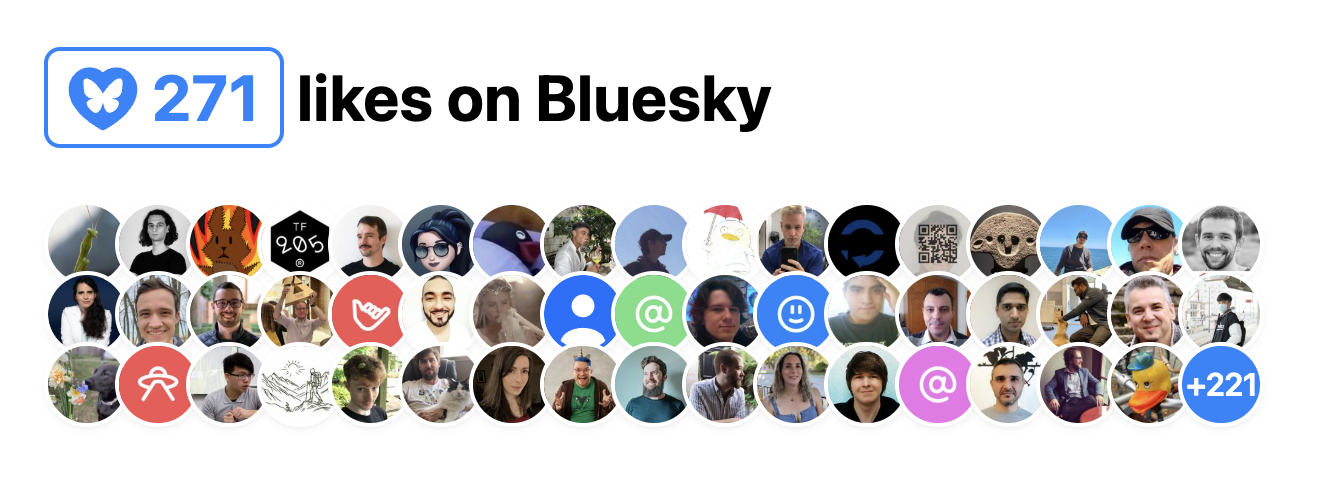
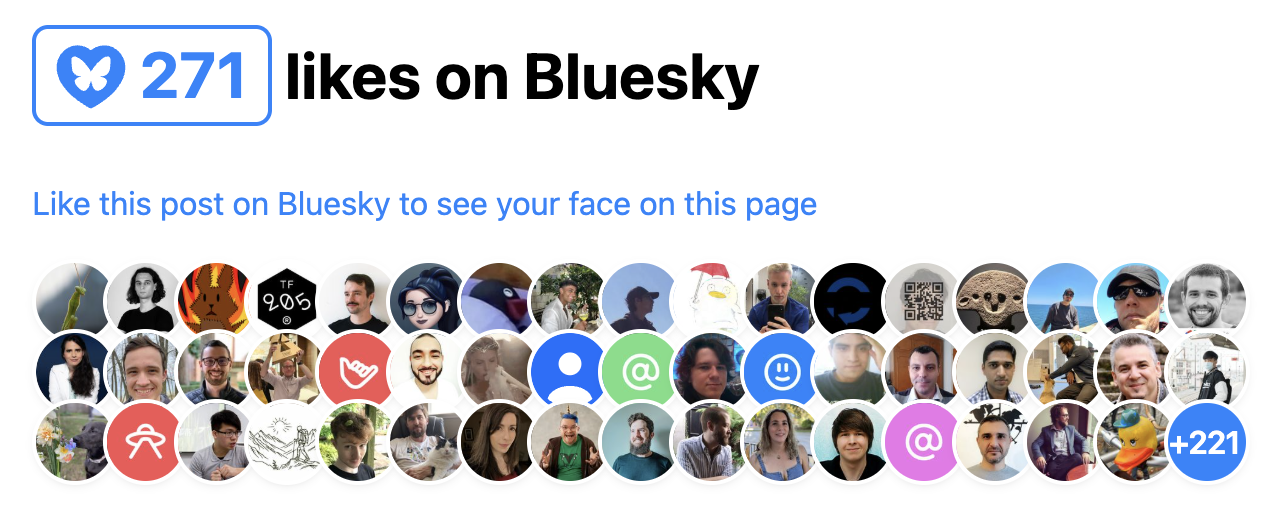
Docs

diff --git a/README.md b/README.md
@@ -1,14 +1,42 @@
 # <img src="logo.svg" height="28" style="height: 1em"> BlueSky Likes Components
 
 Components to display (and encourage) likes on [BlueSky](https://bsky.app) posts.
-Can be used separately, or together.
 
 - [`<bluesky-likes>`](#bluesky-likes): Displays the number of likes on a post.
 - [`<bluesky-likers>`](#bluesky-likers): Displays avatars of users who liked a post.
 
 For a demo, check out https://projects.verou.me/bluesky-likes/
 
+Can be used separately, or together.
+
+E.g. for something similar to [Salma Alam-Nayor’s](https://whitep4nth3r.com/blog/show-bluesky-likes-on-blog-posts/):
+
+```html
+<h2>
+	<bluesky-likes src="https://bsky.app/profile/lea.verou.me/post/3lhygzakuic2n"></bluesky-likes>
+	likes on Bluesky
+</h2>
+
+<p>
+	<a href="https://bsky.app/profile/lea.verou.me/post/3lhygzakuic2n">Like this post on Bluesky to see your face on this page</a>
+</p>
+
+<bluesky-likers src="https://bsky.app/profile/lea.verou.me/post/3lhygzakuic2n"></bluesky-likers>
+```
+
 ![](demo/screenshot.png)
+
+## Features
+
+These components are designed to make common cases easy, and complex cases possible.
+
+- **Dynamic**: Components respond to changes in the URL of the post — or when it’s lazily set later
+- **Ultra-lightweight**: The whole package is [~2 KB minified & gzipped](https://bundlephobia.com/package/bluesky-likes) and dependency-free
+- **Accessible**
+- **Autoloading** is available to take the hassle out of figuring out when to load the components
+- **Highly customizable styling** via regular CSS properties, custom properties, states, and parts (but also beautiful by default so you don’t have to).
+- **Customizable content** via slots
+- **Hackable**: You can [replace the templates and styles](#replacing-templates-and-styles) of the components with your own, or even subclass them to create new components with different templates and styles
 
 ## Installation
 
@@ -37,6 +65,10 @@ Or you can use individual exports like `bluesky-likes/likes`.
 ## `<bluesky-likes>`
 
 Displays the number of likes on a post and links to the full list.
+
+```html
+<bluesky-likes src="https://bsky.app/profile/lea.verou.me/post/3lhygzakuic2n"></bluesky-likes>
+```
 
 ### Attributes
 
@@ -70,6 +102,12 @@ Pretty much all styling is on the host element, so you can just override regular
 | `count` | The `<span>` that contains the like count. |
 
 ## `<bluesky-likers>`
+
+Displays the avatars of users who liked a post up to a max limit, and the number of additional users not shown.
+
+```html
+<bluesky-likers src="https://bsky.app/profile/lea.verou.me/post/3lhygzakuic2n"></bluesky-likers>
+```
 
 ### Attributes
 
@@ -132,6 +170,18 @@ If, however, you do, you can use the `observe()` and `discover()` methods the au
 - `observe(root)` will observe `root` for changes and load components as they are added. You can use `unobserve()` to stop observing.
 - `discover(root)` will discover components in `root` and load them if they are not already loaded. `root` can be any DOM node, including documents and shadow roots.
 
+## Replacing templates and styles
+
+For most common cases, slots should be sufficient for customizing the content of the components and regular CSS to for styling them.
+However, for more advanced use cases, you can completely gut them and replace their templates and styles with your own.
+
+Every component class includes the templates used to render it as a static `templates` property and its CSS styles as a `styles` property.
+For example, `BlueskyLikes.templates` is the templates used by the `<bluesky-likes>` component, and `BlueskyLikers.styles` is the styles used by the `<bluesky-likers>` component.
+Each template is a function that takes a `data` object and returns a string of HTML, while the styles are a string of CSS.
+
+You can either tweak the templates directly, or you can create a subclass with different values and register it as a new component.
+If you make changes after elements have already been initialized, you should call `element.render({useCache: true})` on these elements.
+
 ## API wrapper
 
 Since these components had to interface with the BlueSky API, they also implement a tiny wrapper for the relevant parts of it.
@@ -150,6 +200,11 @@ Also these, though you probably won’t need them unless you’re making new API
 - `getPostUri(url)`: Fetches a post AT URI by its URL.
 
 Unless otherwise mentioned, all functions are async.
+
+## Credits
+
+- [Salma Alam-Nayor](https://whitep4nth3r.com/blog/show-bluesky-likes-on-blog-posts/) for the initial idea
+- [Dmitry Sharabin](https://d12n.me) for the [CodePen that sparked this](https://codepen.io/dmitrysharabin/pen/Jodbyqm)
 
 ## License
 
